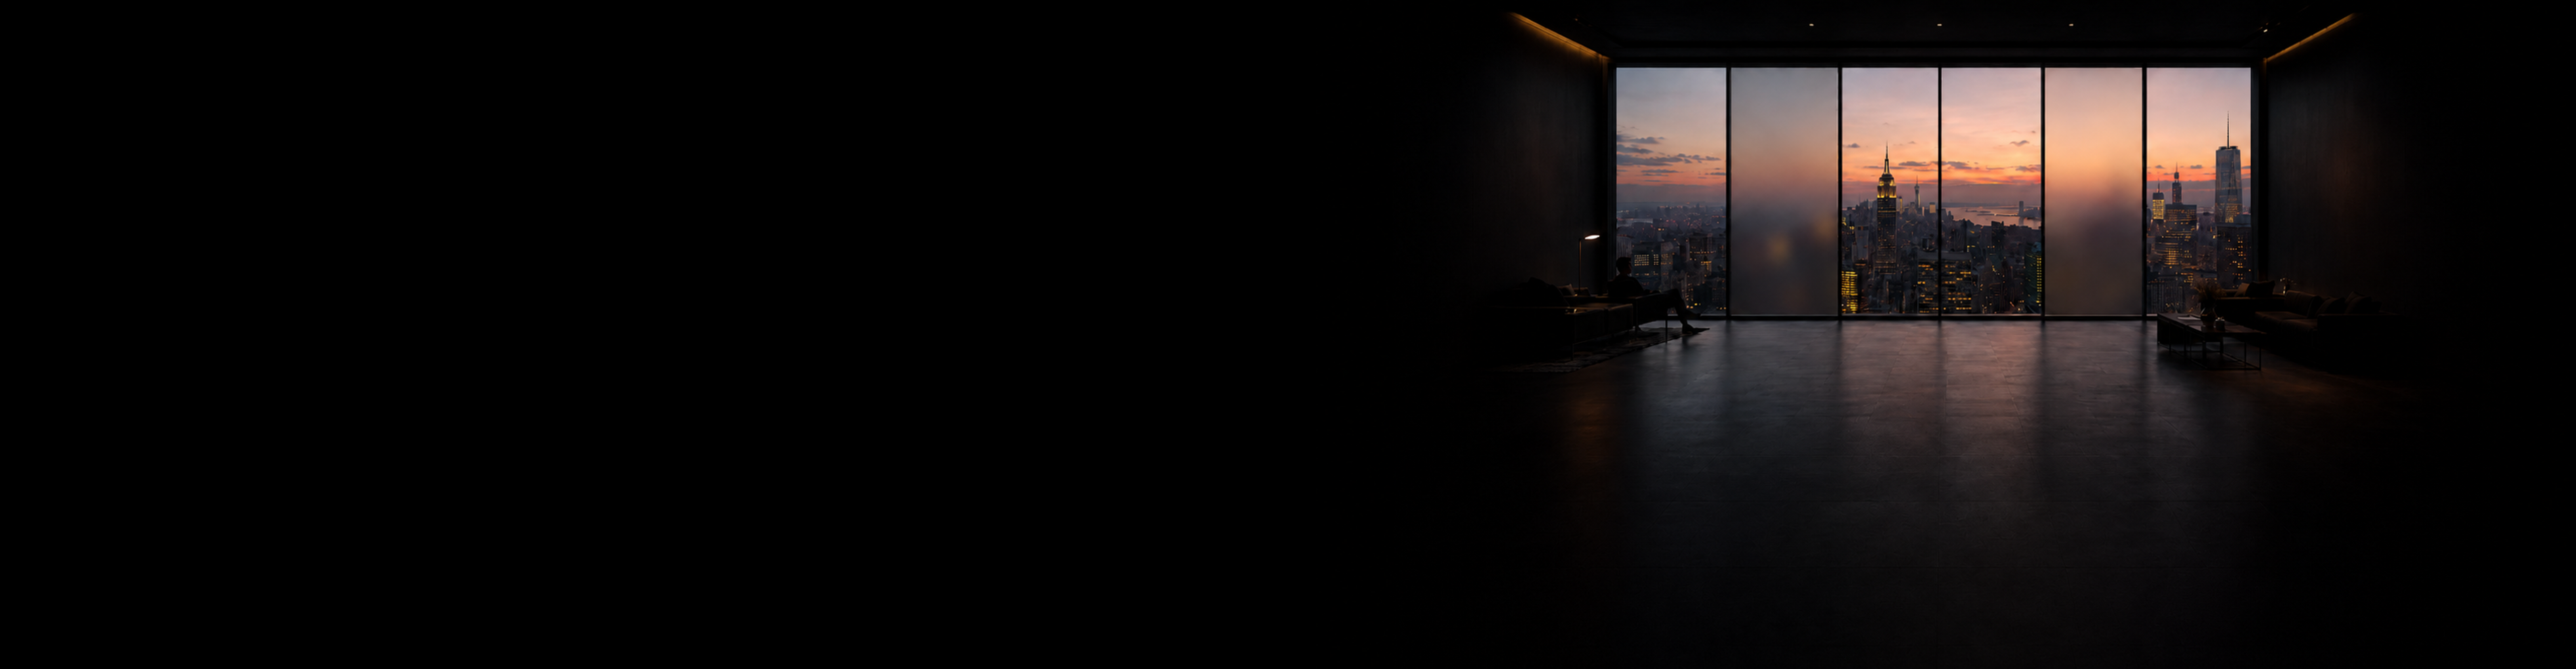
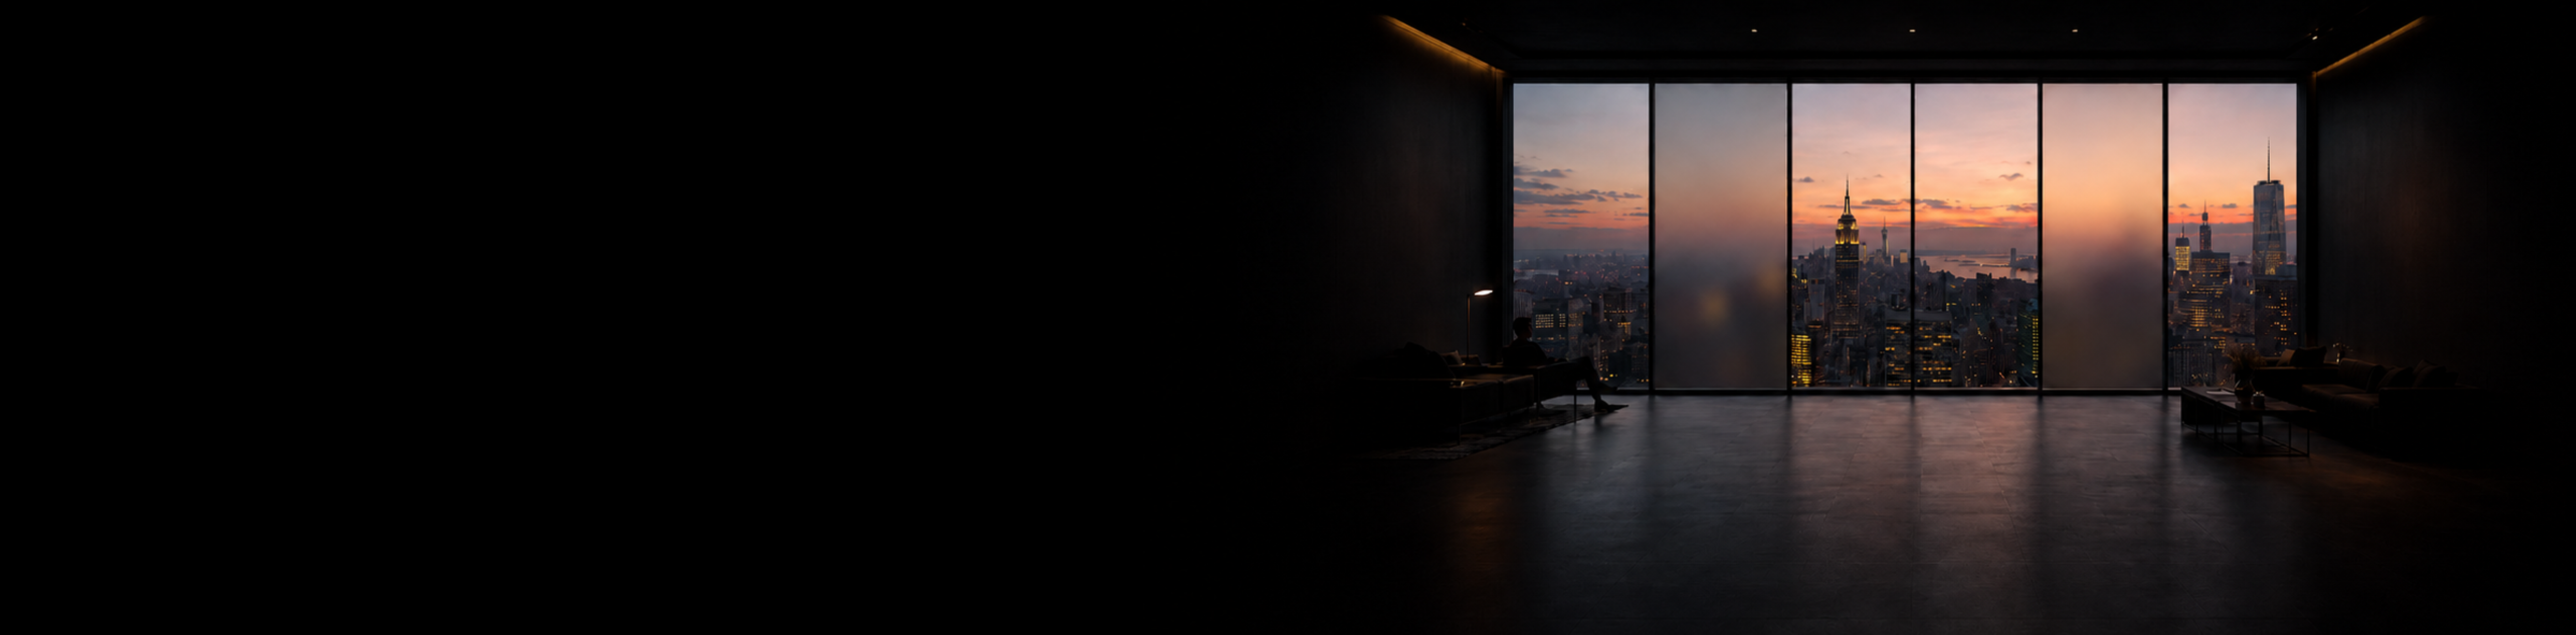
deploy: seumkimrgroup/seumkimrgroup-build@67de9c5e1f66ba2cbac28265b86eb94359341238

Changed region(s): [[0.5301, 0.0306, 0.9667, 1.0], [0.8731, 0.0306, 0.9355, 0.0919]]

diff --git a/index.html b/index.html
@@ -24,11 +24,11 @@
       rel="stylesheet"
     />
 
-    <script type="module" crossorigin src="/assets/index-DO8kma7P.js"></script>
+    <script type="module" crossorigin src="/assets/index-B7yHNKU2.js"></script>
     <link rel="modulepreload" crossorigin href="/assets/util.data-CBsBpnRN.js">
     <link rel="modulepreload" crossorigin href="/assets/component.card.publication-DlaxXLRY.js">
     <link rel="stylesheet" crossorigin href="/assets/util-keMSRWhU.css">
-    <link rel="stylesheet" crossorigin href="/assets/index-BFJwgwKh.css">
+    <link rel="stylesheet" crossorigin href="/assets/index-CkDsEDFU.css">
   </head>
 
   <body>

diff --git a/project/index.html b/project/index.html
@@ -24,10 +24,10 @@
       rel="stylesheet"
     />
 
-    <script type="module" crossorigin src="/assets/project-DhmFl3Ml.js"></script>
+    <script type="module" crossorigin src="/assets/project-iQDrvqn8.js"></script>
     <link rel="modulepreload" crossorigin href="/assets/util.data-CBsBpnRN.js">
     <link rel="stylesheet" crossorigin href="/assets/util-keMSRWhU.css">
-    <link rel="stylesheet" crossorigin href="/assets/project-DZCPS39k.css">
+    <link rel="stylesheet" crossorigin href="/assets/project-D7FK9wb_.css">
   </head>
 
   <body>

diff --git a/assets/index-CkDsEDFU.css b/assets/index-CkDsEDFU.css
@@ -1,0 +1,1 @@
+.carousel-nav{display:flex;align-items:center;justify-content:center;gap:var(--space-sm);height:24px}.carousel-nav.is-hidden{display:none}.carousel-nav-prev,.carousel-nav-next{width:28px;height:24px;flex-shrink:0;color:var(--color-text)}.carousel-nav-prev:hover,.carousel-nav-next:hover{transform:none}.carousel-nav-pagination{display:flex;align-items:center;gap:var(--space-sm)}.carousel-nav-pagination .swiper-pagination-bullet{width:7px;height:7px;border-radius:50%;background:var(--color-text);opacity:.3;cursor:pointer;transition:opacity var(--duration-fast) ease;flex-shrink:0}.carousel-nav-pagination .swiper-pagination-bullet-active{opacity:1}.carousel-nav--light .carousel-nav-pagination .swiper-pagination-bullet{background:var(--white);opacity:.45}.carousel-nav--light .carousel-nav-pagination .swiper-pagination-bullet-active{opacity:1}.carousel-nav--light .carousel-nav-prev,.carousel-nav--light .carousel-nav-next{color:#fffc}.carousel-nav--light .carousel-nav-prev:hover,.carousel-nav--light .carousel-nav-next:hover{color:var(--white)}#projects{position:relative;height:100%;background-color:var(--slate-800);--swiper-pagination-color: var(--white);--swiper-pagination-bullet-inactive-color: rgba(255, 255, 255, .45);--swiper-pagination-bullet-inactive-opacity: 1;--swiper-pagination-bullet-size: 7px}#projects .swiper-wrapper{height:100%}#projects .swiper-slide{height:100%;position:relative;background-color:var(--slate-800);background-size:cover;background-position:top right;display:flex;flex-direction:column;justify-content:flex-end}#projects .swiper-slide>.inner{position:relative;z-index:2;padding-bottom:52px}#projects .carousel-nav{position:absolute;bottom:12px;left:0;right:0;z-index:3}#projects .row{align-items:flex-end}#projects .tag--project{color:var(--white);background:#eab308;border:none;margin-bottom:4px}#research .swiper{width:100%;overflow-x:clip;overflow-y:visible;touch-action:pan-y}#research .swiper-wrapper{align-items:flex-start}#research .swiper-slide{width:100%!important;height:auto;min-width:0;display:flex;flex-direction:column;gap:var(--space-lg)}#research .split--46>.stack--sm>p{display:-webkit-box;-webkit-line-clamp:10;line-clamp:10;-webkit-box-orient:vertical;overflow:hidden}#updates .swiper{--swiper-navigation-color: var(--color-text);--swiper-navigation-size: 16px;--swiper-pagination-color: var(--color-text);--swiper-pagination-bullet-inactive-color: var(--zinc-200);--swiper-pagination-bullet-inactive-opacity: 1;--swiper-pagination-bullet-size: 7px;width:100%;touch-action:pan-y;overflow:hidden}#updates .swiper-wrapper{height:auto;align-items:stretch}#updates .swiper-slide{height:auto;box-sizing:border-box;display:flex;align-items:stretch}#updates .card--update{position:relative;width:100%;max-width:none;height:420px;border-color:transparent;overflow:hidden}#updates .card--update .media{flex:0 0 200px;height:200px;aspect-ratio:unset;background:var(--white)}#updates .card--update .media img{position:absolute;top:0;left:50%;transform:translate(-50%);height:100%;width:auto;max-width:none;object-fit:unset}#updates .card--update .stack--xs{flex:1;overflow:hidden;position:relative}#updates .card--update .stack--xs:after{content:"";position:absolute;bottom:0;left:0;right:0;height:72px;background:linear-gradient(to bottom,transparent,var(--color-bg));pointer-events:none}#updates .card--update:after{content:"";position:absolute;top:0;right:0;bottom:0;left:0;z-index:3;pointer-events:none;border:1px solid var(--zinc-200);border-radius:inherit}#updates .card--update:hover:after{border-color:var(--zinc-300)}#updates .carousel-nav{margin-top:8px}#research .btn-short,#research .btn-full{display:inline-flex;overflow:hidden;white-space:nowrap}#research .btn-short{max-width:8em;opacity:1;transition:max-width var(--duration-slow) ease,opacity var(--duration-fast) ease}#research .btn-full{max-width:0;opacity:0;transition:max-width var(--duration-slow) ease,opacity var(--duration-slow) ease var(--duration-fast)}#research .btn.is-active .btn-short{max-width:0;opacity:0}#research .btn.is-active .btn-full{max-width:30em;opacity:1}@media (max-width: 640px){#research .btn-short,#research .btn.is-active .btn-short{max-width:8em;opacity:1;transition:none}#research .btn-full{display:none}}:root{--swiper-theme-color: #007aff}:host{position:relative;display:block;margin-left:auto;margin-right:auto;z-index:1}.swiper{margin-left:auto;margin-right:auto;position:relative;overflow:hidden;list-style:none;padding:0;z-index:1;display:block}.swiper-vertical>.swiper-wrapper{flex-direction:column}.swiper-wrapper{position:relative;width:100%;height:100%;z-index:1;display:flex;transition-property:transform;transition-timing-function:var(--swiper-wrapper-transition-timing-function, initial);box-sizing:content-box}.swiper-android .swiper-slide,.swiper-ios .swiper-slide,.swiper-wrapper{transform:translateZ(0)}.swiper-horizontal{touch-action:pan-y}.swiper-vertical{touch-action:pan-x}.swiper-slide{flex-shrink:0;width:100%;height:100%;position:relative;transition-property:transform;display:block}.swiper-slide-invisible-blank{visibility:hidden}.swiper-autoheight,.swiper-autoheight .swiper-slide{height:auto}.swiper-autoheight .swiper-wrapper{align-items:flex-start;transition-property:transform,height}.swiper-backface-hidden .swiper-slide{transform:translateZ(0);backface-visibility:hidden}.swiper-3d.swiper-css-mode .swiper-wrapper{perspective:1200px}.swiper-3d .swiper-wrapper{transform-style:preserve-3d}.swiper-3d{perspective:1200px}.swiper-3d .swiper-slide,.swiper-3d .swiper-cube-shadow{transform-style:preserve-3d}.swiper-css-mode>.swiper-wrapper{overflow:auto;scrollbar-width:none;-ms-overflow-style:none}.swiper-css-mode>.swiper-wrapper::-webkit-scrollbar{display:none}.swiper-css-mode>.swiper-wrapper>.swiper-slide{scroll-snap-align:start start}.swiper-css-mode.swiper-horizontal>.swiper-wrapper{scroll-snap-type:x mandatory}.swiper-css-mode.swiper-horizontal>.swiper-wrapper>.swiper-slide:first-child{margin-inline-start:var(--swiper-slides-offset-before);scroll-margin-inline-start:var(--swiper-slides-offset-before)}.swiper-css-mode.swiper-horizontal>.swiper-wrapper>.swiper-slide:last-child{margin-inline-end:var(--swiper-slides-offset-after)}.swiper-css-mode.swiper-vertical>.swiper-wrapper{scroll-snap-type:y mandatory}.swiper-css-mode.swiper-vertical>.swiper-wrapper>.swiper-slide:first-child{margin-block-start:var(--swiper-slides-offset-before);scroll-margin-block-start:var(--swiper-slides-offset-before)}.swiper-css-mode.swiper-vertical>.swiper-wrapper>.swiper-slide:last-child{margin-block-end:var(--swiper-slides-offset-after)}.swiper-css-mode.swiper-free-mode>.swiper-wrapper{scroll-snap-type:none}.swiper-css-mode.swiper-free-mode>.swiper-wrapper>.swiper-slide{scroll-snap-align:none}.swiper-css-mode.swiper-centered>.swiper-wrapper:before{content:"";flex-shrink:0;order:9999}.swiper-css-mode.swiper-centered>.swiper-wrapper>.swiper-slide{scroll-snap-align:center center;scroll-snap-stop:always}.swiper-css-mode.swiper-centered.swiper-horizontal>.swiper-wrapper>.swiper-slide:first-child{margin-inline-start:var(--swiper-centered-offset-before)}.swiper-css-mode.swiper-centered.swiper-horizontal>.swiper-wrapper:before{height:100%;min-height:1px;width:var(--swiper-centered-offset-after)}.swiper-css-mode.swiper-centered.swiper-vertical>.swiper-wrapper>.swiper-slide:first-child{margin-block-start:var(--swiper-centered-offset-before)}.swiper-css-mode.swiper-centered.swiper-vertical>.swiper-wrapper:before{width:100%;min-width:1px;height:var(--swiper-centered-offset-after)}.swiper-3d .swiper-slide-shadow,.swiper-3d .swiper-slide-shadow-left,.swiper-3d .swiper-slide-shadow-right,.swiper-3d .swiper-slide-shadow-top,.swiper-3d .swiper-slide-shadow-bottom{position:absolute;left:0;top:0;width:100%;height:100%;pointer-events:none;z-index:10}.swiper-3d .swiper-slide-shadow{background:#00000026}.swiper-3d .swiper-slide-shadow-left{background-image:linear-gradient(to left,#00000080,#0000)}.swiper-3d .swiper-slide-shadow-right{background-image:linear-gradient(to right,#00000080,#0000)}.swiper-3d .swiper-slide-shadow-top{background-image:linear-gradient(to top,#00000080,#0000)}.swiper-3d .swiper-slide-shadow-bottom{background-image:linear-gradient(to bottom,#00000080,#0000)}.swiper-lazy-preloader{width:42px;height:42px;position:absolute;left:50%;top:50%;margin-left:-21px;margin-top:-21px;z-index:10;transform-origin:50%;box-sizing:border-box;border:4px solid var(--swiper-preloader-color, var(--swiper-theme-color));border-radius:50%;border-top-color:transparent}.swiper:not(.swiper-watch-progress) .swiper-lazy-preloader,.swiper-watch-progress .swiper-slide-visible .swiper-lazy-preloader{animation:swiper-preloader-spin 1s infinite linear}.swiper-lazy-preloader-white{--swiper-preloader-color: #fff}.swiper-lazy-preloader-black{--swiper-preloader-color: #000}@keyframes swiper-preloader-spin{0%{transform:rotate(0)}to{transform:rotate(360deg)}}

diff --git a/assets/project-D7FK9wb_.css b/assets/project-D7FK9wb_.css
@@ -1,0 +1,1 @@
+@keyframes wordIn{0%{opacity:0;transform:translateY(8px);filter:blur(6px)}to{opacity:1;transform:translateY(0);filter:blur(0)}}.word-block{display:inline-block;opacity:0;filter:blur(6px);transform:translateY(8px);animation:wordIn var(--duration-slow) ease forwards}#project-intro{display:flex;flex-direction:column;justify-content:flex-end;align-items:center;padding-bottom:40px;text-align:center}#project-intro .media{width:200px;aspect-ratio:16 / 9}#project-body{display:flex;flex-direction:column;gap:160px}#project-body .media{max-width:560px;margin-inline:auto}#project-body .media+.color-secondary,#project-intro .media+.color-secondary{text-align:center}

diff --git a/assets/project-iQDrvqn8.js b/assets/project-iQDrvqn8.js
@@ -1,0 +1,1 @@
+import{f as p,e as r}from"./util.data-CBsBpnRN.js";const c=document.querySelector("#project-intro"),i=c==null?void 0:c.querySelector(".stack"),s=document.querySelector("#project-body"),d=new URLSearchParams(window.location.search).get("slug");function m(t){t.querySelectorAll("p").forEach(e=>{const a=e.textContent.trim().split(/\s+/);e.innerHTML="";for(let o=0;o<a.length;o++){const l=document.createElement("span");l.className="word-block",l.style.animationDelay=`${Math.random()*700}ms`,l.textContent=a[o],e.appendChild(l),o<a.length-1&&e.appendChild(document.createTextNode(" "))}})}function f(t,n){n&&(c.style.backgroundImage=`url(${r(n)})`);let e="";t.title&&(e+=`<h1>${r(t.title)}</h1>`),Array.isArray(t.content)&&t.content.forEach(a=>{e+=`<p>${r(a)}</p>`}),t.image&&(e+=`<div class="media"><img src="${r(t.image)}" alt="" /></div>`,t.caption&&(e+=`<p class="color-secondary">${r(t.caption)}</p>`)),i.innerHTML=e,m(i)}function u(t){const n=document.createElement("section");n.className="section";const e=document.createElement("div");e.className="stack";let a="";return t.title&&(a+=`<h2>${r(t.title)}</h2>`),Array.isArray(t.content)&&t.content.forEach(o=>{a+=`<p>${r(o)}</p>`}),t.image&&(a+=`<div class="media"><img src="${r(t.image)}" alt="${r(t.title||"")}" /></div>`,t.caption&&(a+=`<p class="color-secondary">${r(t.caption)}</p>`)),e.innerHTML=a,n.appendChild(e),n}async function h(){if(!c||!i||!s||!d)return;const n=(await p("/assets/data/projects.json")).find(e=>e.slug===d);n&&(n.sections||[]).forEach((e,a)=>{if(a===0)f(e,n.background);else{const o=u(e);s.appendChild(o),a===1&&m(o)}})}h();